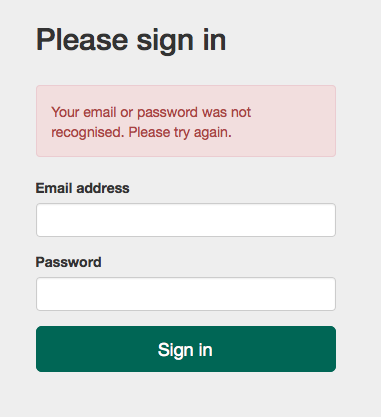
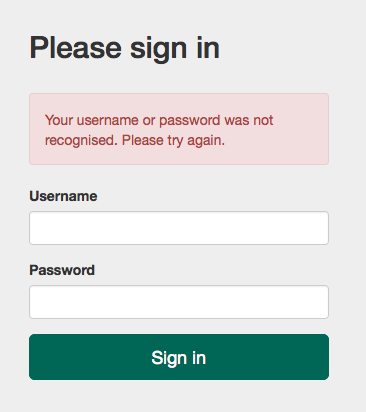
more login

diff --git a/login-loggedout.html b/login-loggedout.html
@@ -1,0 +1,60 @@
+<!DOCTYPE html>
+	<html lang="en">
+	  <head>
+	    <meta charset="utf-8">
+	    <meta http-equiv="X-UA-Compatible" content="IE=edge">
+	    <meta name="viewport" content="width=device-width, initial-scale=1">
+	    <title>Morrisons Petrol Management System</title>
+
+	    <!-- Bootstrap core CSS -->
+	    <link href="bootstrap-3.2.0-dist/css/bootstrap.min.css" rel="stylesheet">
+	
+	    <!-- Custom styles for this template -->
+	    <link href="pfs.css" rel="stylesheet">
+	    <link href="login.css" rel="stylesheet">
+	
+
+	    <!-- HTML5 Shim and Respond.js IE8 support of HTML5 elements and media queries -->
+	    <!-- WARNING: Respond.js doesn't work if you view the page via file:// -->
+	    <!--[if lt IE 9]>
+	      <script src="https://oss.maxcdn.com/html5shiv/3.7.2/html5shiv.min.js"></script>
+	      <script src="https://oss.maxcdn.com/respond/1.4.2/respond.min.js"></script>
+	    <![endif]-->
+	  </head>
+	  <body>
+	    <div class="navbar navbar-inverse navbar-fixed-top">
+	      <div class="container-fluid">
+	        <div class="navbar-header">
+	          <a class="navbar-brand" href="dashboard.html">
+				<img alt="Morrisons logo" src="morrisonslogo.png" class="navbar-logo"> 
+				Petrol Operations</a>
+	        </div>
+
+	      </div>
+	    </div>
+		<div class="container">
+
+		      <form role="form" class="form-signin">
+		        <h2 class="page-header">Please sign in</h2>
+				<div class="alert alert-warning"><p>You have been signed out from the application.</p></div>
+				<div class="form-group">
+					<label class="control-label" for="email">Username</label>
+		        	<input type="email" id="email" class="form-control">
+				</div>
+				<div class="form-group">
+					<label class="control-label" for="password">Password</label>		
+		        	<input type="password" class="form-control">
+				</div>
+		        <a class="btn btn-lg btn-primary btn-block" href="dashboard.html">Sign in</a>
+		      </form>
+
+		    </div>
+
+    <!-- Bootstrap core JavaScript
+    ================================================== -->
+    <!-- Placed at the end of the document so the pages load faster -->
+    <script src="https://ajax.googleapis.com/ajax/libs/jquery/1.11.1/jquery.min.js"></script>
+    <script src="bootstrap-3.2.0-dist/js/bootstrap.min.js"></script>
+    <script src="assets/js/docs.min.js"></script>
+  </body>
+</html>

diff --git a/login-home.html b/login-home.html
@@ -1,0 +1,44 @@
+<!DOCTYPE html>
+	<html lang="en">
+	  <head>
+	    <meta charset="utf-8">
+	    <meta http-equiv="X-UA-Compatible" content="IE=edge">
+	    <meta name="viewport" content="width=device-width, initial-scale=1">
+	    <title>Morrisons Petrol Management System</title>
+
+	    <!-- Bootstrap core CSS -->
+	    <link href="bootstrap-3.2.0-dist/css/bootstrap.min.css" rel="stylesheet">
+	
+	    <!-- Custom styles for this template -->
+	    <link href="pfs.css" rel="stylesheet">
+
+	    <!-- HTML5 Shim and Respond.js IE8 support of HTML5 elements and media queries -->
+	    <!-- WARNING: Respond.js doesn't work if you view the page via file:// -->
+	    <!--[if lt IE 9]>
+	      <script src="https://oss.maxcdn.com/html5shiv/3.7.2/html5shiv.min.js"></script>
+	      <script src="https://oss.maxcdn.com/respond/1.4.2/respond.min.js"></script>
+	    <![endif]-->
+	  </head>
+	  <body>
+	    <div class="navbar navbar-inverse navbar-fixed-top">
+	      <div class="container-fluid">
+	        <div class="navbar-header">
+	          <a class="navbar-brand" href="dashboard.html">
+				<img alt="Morrisons logo" src="morrisonslogo.png" class="navbar-logo"> 
+				Petrol Operations</a>
+	        </div>
+			  <ul class="nav navbar-nav navbar-right">
+				<li><a href="">Sign out</a></li>
+				</ul>
+	      </div>
+	    </div>
+
+
+    <!-- Bootstrap core JavaScript
+    ================================================== -->
+    <!-- Placed at the end of the document so the pages load faster -->
+    <script src="https://ajax.googleapis.com/ajax/libs/jquery/1.11.1/jquery.min.js"></script>
+    <script src="bootstrap-3.2.0-dist/js/bootstrap.min.js"></script>
+    <script src="assets/js/docs.min.js"></script>
+  </body>
+</html>
